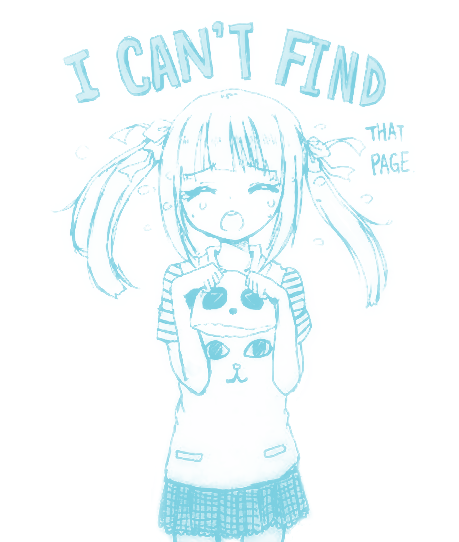
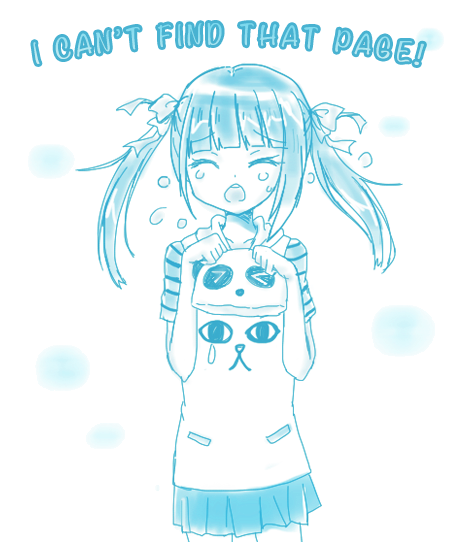
change 404

Changed region(s): [[0.061, 0.0295, 0.976, 1.0], [0.0915, 0.6494, 0.183, 0.7085], [0.183, 0.797, 0.2745, 0.8266]]

diff --git a/404.html b/404.html
@@ -16,9 +16,9 @@ h1 {
     right: 90px;
 }
 .center {
-    position: fixed;
-    top: 83px;
-    right: 90px;
+    position: absolute;
+    top: 165px;
+    right: 60px;
 }
 .color{
 	color: #4fc5df;
@@ -52,7 +52,7 @@ div.footer {
      </script>
 	 
 	 
-<img class="center" src="image/notfind.png" width="359" height="442" alt="Notfind">
+<img class="center" src="image/notfind.png" width="300" height="360" alt="Notfind">
 <p>&nbsp;</p><p>&nbsp;</p><p>&nbsp;</p>
 <div class="footer">LuxR Design Studio © Copyright reserved.</div>
 </body>
